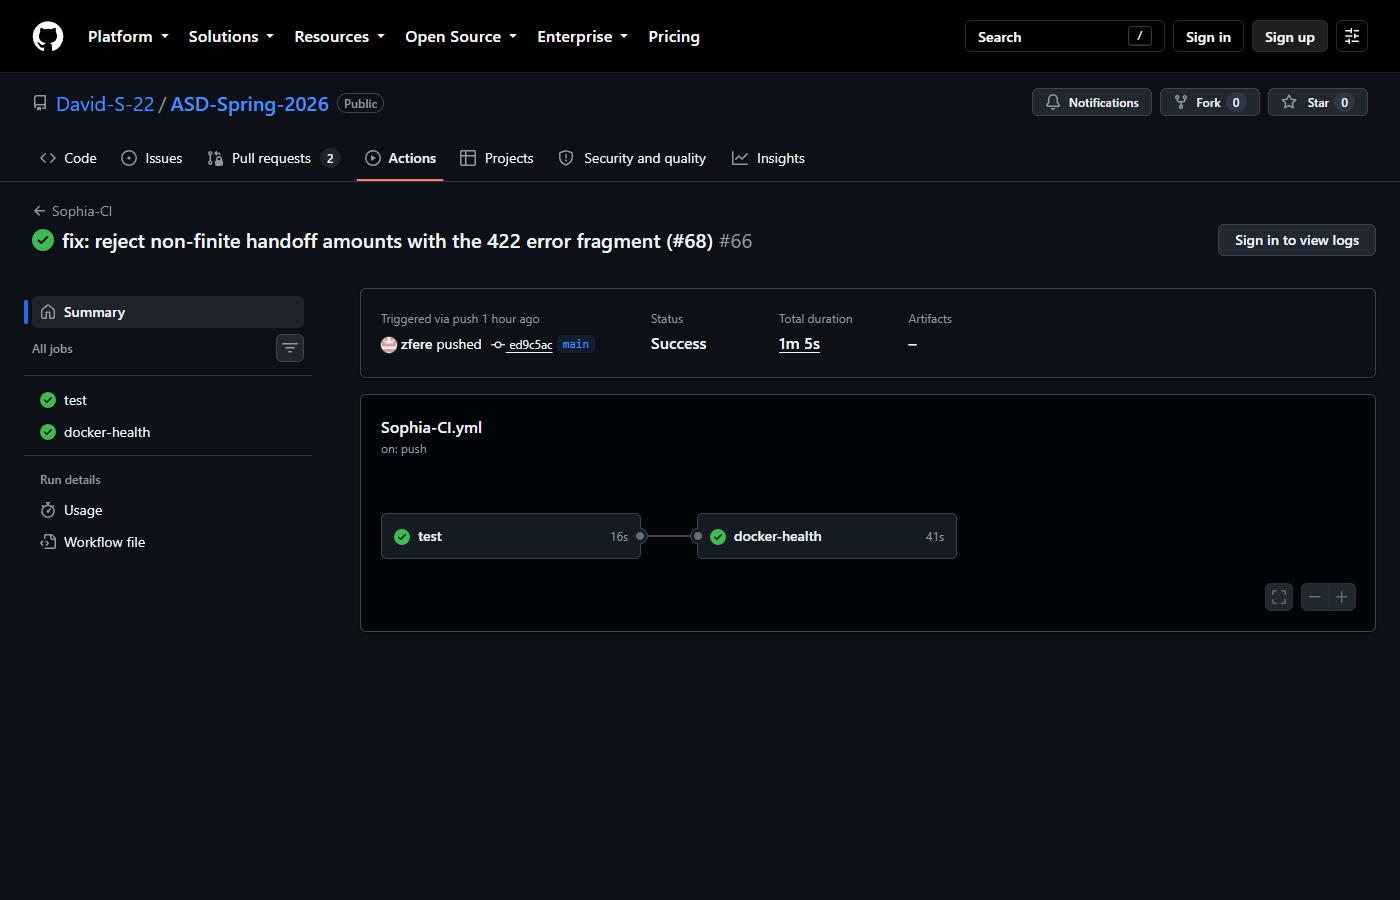
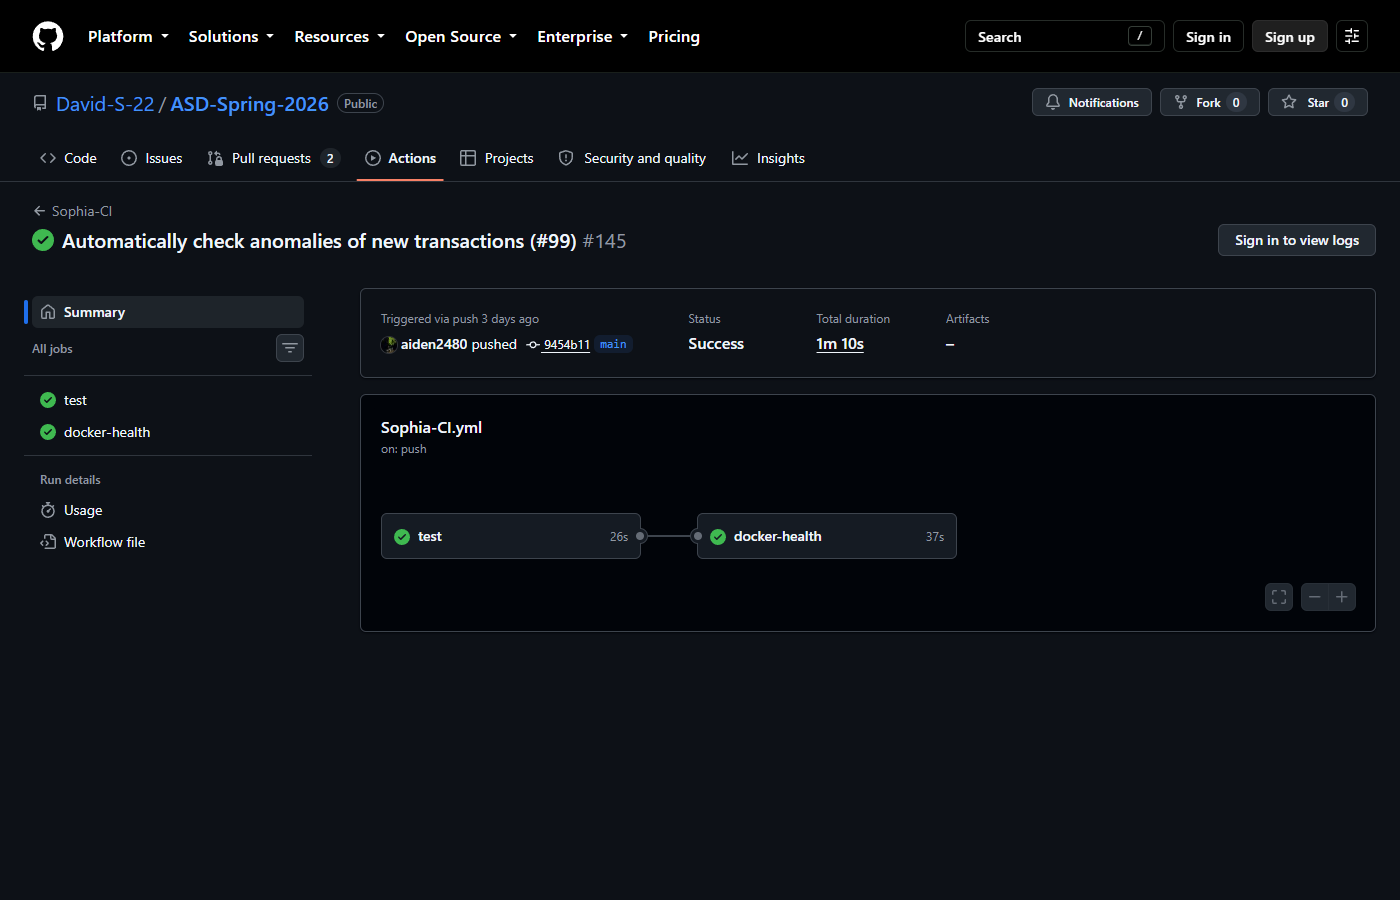
docs: re-capture r0-09 against CI run 145
The Actions summary screenshot showed run #66 from 30 Aug. The report cites run
145 as the latest green run on main, so the evidence now matches the claim: run
#145, test and docker-health both green (26s and 37s, 1m 10s total), at sha
9454b11.

Captured signed-out on the public repository at 1400x900 in dark, the same way
the image it replaces was taken.

Recorded in the README rather than left for a reader to trip over: the run's
title is "Automatically check anomalies of new transactions (#99)" and it was
pushed by a teammate. Sophia-CI triggers on shared/** as well as sophia/**, and
#99 touched shared/. It is still the run covering this feature's code — both
`git rev-parse HEAD:sophia` and `git rev-parse 9454b11:sophia` return b23a2be,
so the Bills tree it tested is byte-identical to the submitted one.

diff --git a/docs/release-0/sophia/README.md b/docs/release-0/sophia/README.md
@@ -40,8 +40,22 @@ all taken at once, and the dates matter when reading them:
   showed only the three `bills-*` containers plus `ollama` from a partial run.
   Both are renderings of real captured output in the same terminal style as the
   rest of the set — the commands shown are the commands that produced the text.
-- **r0-08, r0-09 (Actions) and r0-11 (health)** are still from 30–31 Aug and are
-  now the oldest in the set. r0-09 predates CI run 145.
+- **r0-09 (Actions run summary)** was re-captured 7 Sep and now shows run **#145**
+  — the run the report cites — with `test` and `docker-health` both green (26s and
+  37s, 1m 10s total) at sha `9454b11`. The previous shot was run #66 from 30 Aug.
+  Captured signed-out on the public repository, which is why the page shows Sign
+  in / Sign up and "Sign in to view logs"; that matches how the image it replaces
+  was taken.
+
+  The run's title reads "Automatically check anomalies of new transactions (#99)"
+  and was pushed by a teammate, not by me. That is expected rather than a mix-up:
+  Sophia-CI triggers on `sophia/**` **and** `shared/**`, and #99 touched `shared/`.
+  It is still the run that covers this feature's code — `git rev-parse HEAD:sophia`
+  and `git rev-parse 9454b11:sophia` both return `b23a2be`, so the Bills tree it
+  tested is byte-identical to the submitted one. See
+  `evidence/ci-summary-2026-09-07.txt`.
+- **r0-08 (Actions list) and r0-11 (health)** are still from 30–31 Aug and are now
+  the oldest images in the set.
 
 `r0-12` and `r0-12b` document a defect that has since been **fixed**. Read them as
 history, with `r0-12g` beside them for the current state:
